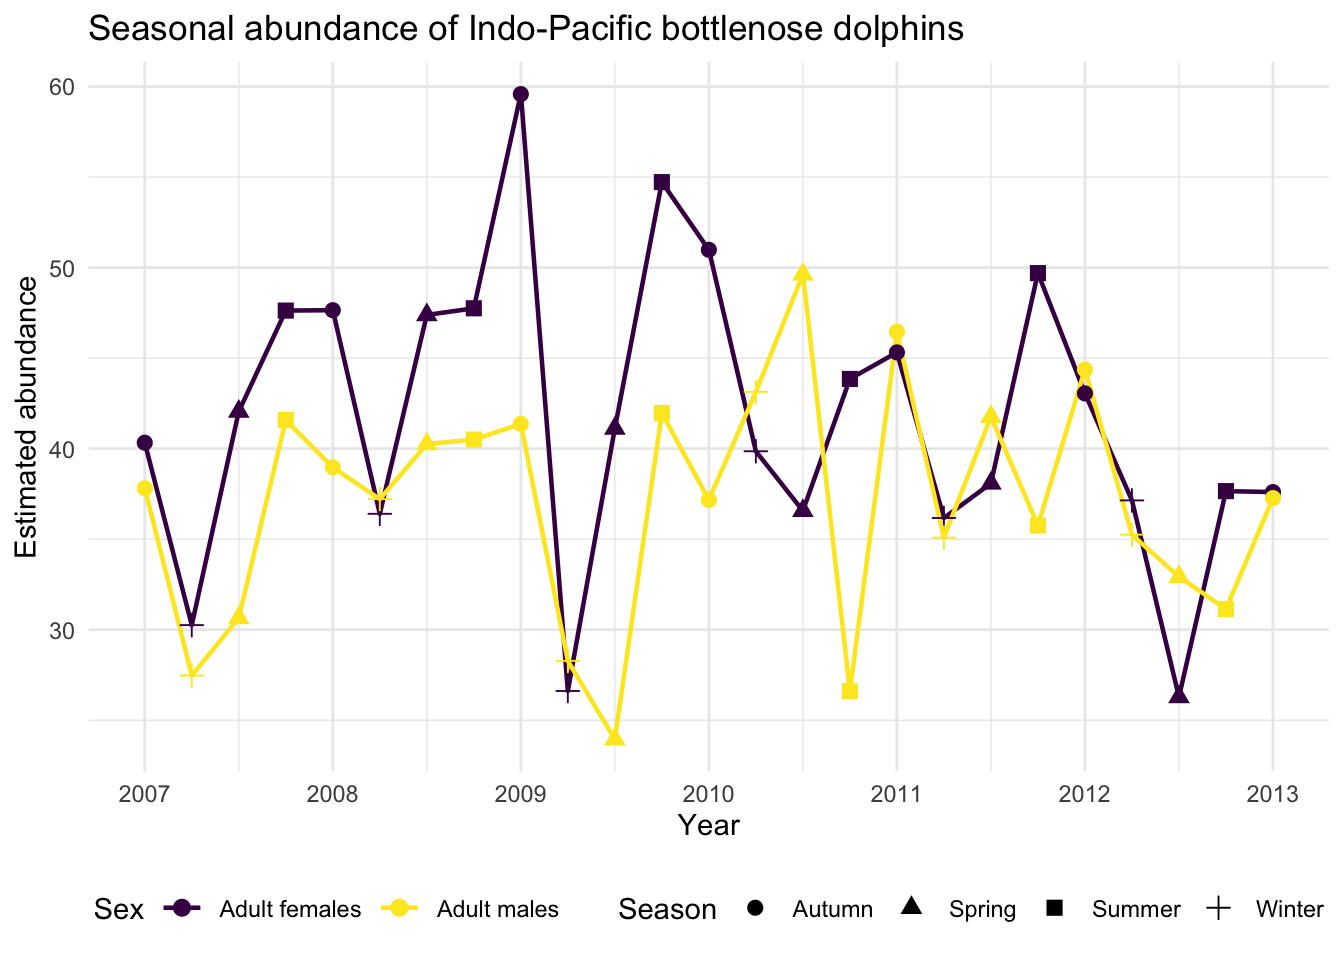
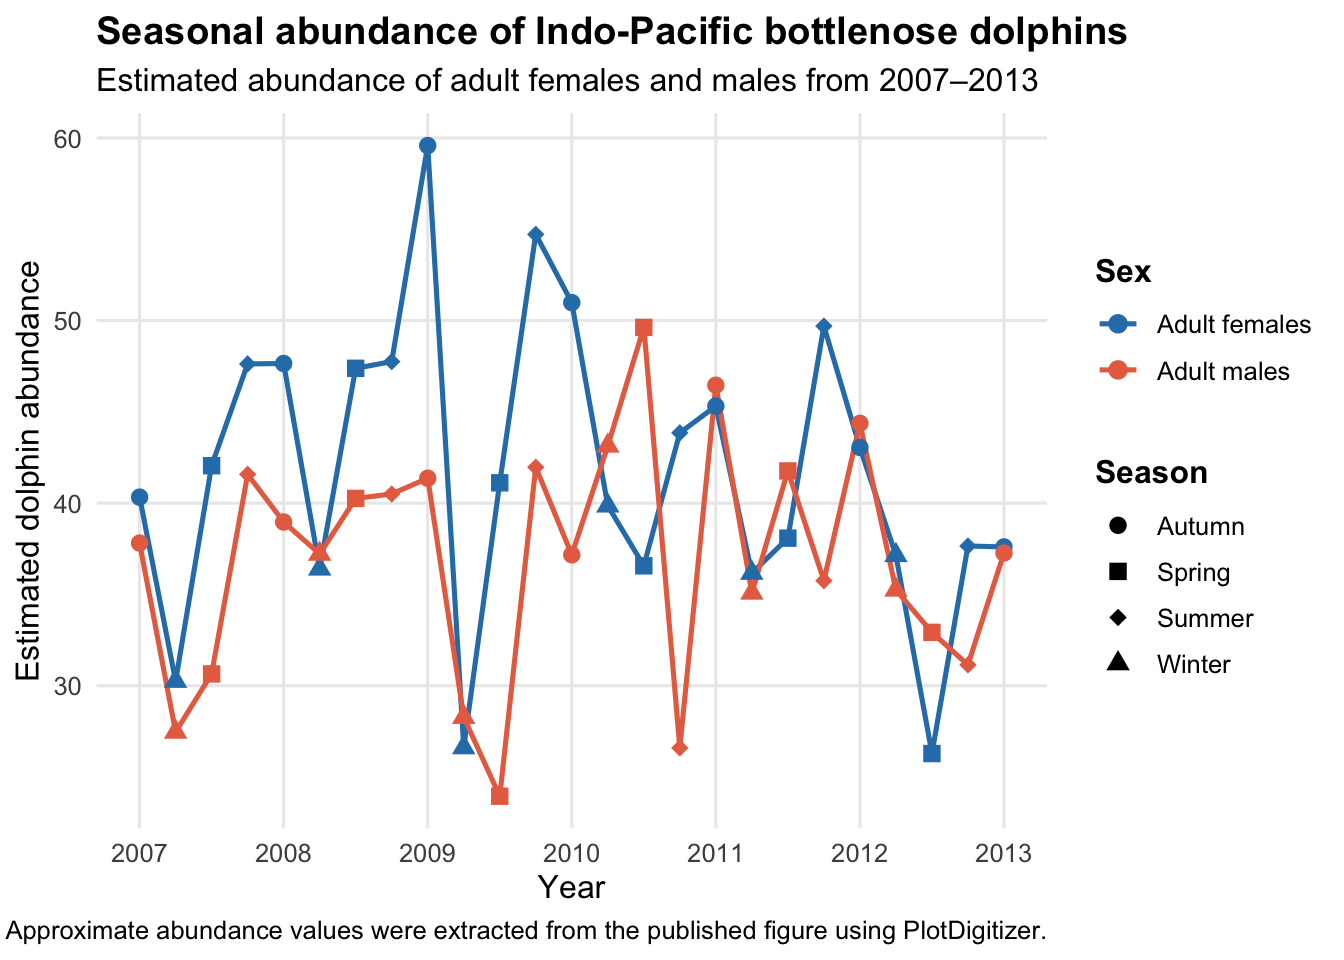
Workshop 3 plot deconstruction

diff --git a/docs/R4MarineScience_03.html b/docs/R4MarineScience_03.html
@@ -261,6 +261,11 @@ $ position &lt;dbl&gt; 1, 2, 3, 4, 5, 6, 7, 9, 10, 11, 12, 13, 14, 15, 16, 17, 1
 10 Adult females  2009 Winter Winter 2009          26.6</code></pre>
 </div>
 </div>
+</section>
+<section id="reconstructed-figure" class="level2">
+<h2 class="anchored" data-anchor-id="reconstructed-figure">Reconstructed figure</h2>
+<p><strong>Improvement approach:</strong><br>
+The figure was redesigned to make the temporal patterns easier to interpret by simplifying the x-axis, using contrasting colours for sex, and using different point shapes to retain seasonal information.</p>
 <div class="cell">
 <div class="sourceCode cell-code" id="cb19"><pre class="sourceCode r code-with-copy"><code class="sourceCode r"><span id="cb19-1"><a href="#cb19-1" aria-hidden="true" tabindex="-1"></a><span class="co"># Create a numeric time variable so seasons can be plotted within each year</span></span>
 <span id="cb19-2"><a href="#cb19-2" aria-hidden="true" tabindex="-1"></a>dolphin_plot <span class="ot">&lt;-</span> dolphin_clean <span class="sc">|&gt;</span></span>
@@ -272,7 +277,7 @@ $ position &lt;dbl&gt; 1, 2, 3, 4, 5, 6, 7, 9, 10, 11, 12, 13, 14, 15, 16, 17, 1
 <span id="cb19-8"><a href="#cb19-8" aria-hidden="true" tabindex="-1"></a>        season <span class="sc">==</span> <span class="st">"Spring"</span> <span class="sc">~</span> <span class="fl">0.50</span>,</span>
 <span id="cb19-9"><a href="#cb19-9" aria-hidden="true" tabindex="-1"></a>        season <span class="sc">==</span> <span class="st">"Summer"</span> <span class="sc">~</span> <span class="fl">0.75</span>))</span>
 <span id="cb19-10"><a href="#cb19-10" aria-hidden="true" tabindex="-1"></a></span>
-<span id="cb19-11"><a href="#cb19-11" aria-hidden="true" tabindex="-1"></a><span class="co"># Reconstruct the dolphin abundance figure with a cleaner and more accessible design</span></span>
+<span id="cb19-11"><a href="#cb19-11" aria-hidden="true" tabindex="-1"></a><span class="co"># Create a cleaner publication-style plot with improved colours and legend layout</span></span>
 <span id="cb19-12"><a href="#cb19-12" aria-hidden="true" tabindex="-1"></a><span class="fu">ggplot</span>(</span>
 <span id="cb19-13"><a href="#cb19-13" aria-hidden="true" tabindex="-1"></a>  dolphin_plot,</span>
 <span id="cb19-14"><a href="#cb19-14" aria-hidden="true" tabindex="-1"></a>  <span class="fu">aes</span>(</span>
@@ -280,84 +285,46 @@ $ position &lt;dbl&gt; 1, 2, 3, 4, 5, 6, 7, 9, 10, 11, 12, 13, 14, 15, 16, 17, 1
 <span id="cb19-16"><a href="#cb19-16" aria-hidden="true" tabindex="-1"></a>    <span class="at">y =</span> abundance,</span>
 <span id="cb19-17"><a href="#cb19-17" aria-hidden="true" tabindex="-1"></a>    <span class="at">colour =</span> sex,</span>
 <span id="cb19-18"><a href="#cb19-18" aria-hidden="true" tabindex="-1"></a>    <span class="at">group =</span> sex)) <span class="sc">+</span></span>
-<span id="cb19-19"><a href="#cb19-19" aria-hidden="true" tabindex="-1"></a>  <span class="fu">geom_line</span>(<span class="at">linewidth =</span> <span class="fl">0.8</span>) <span class="sc">+</span></span>
+<span id="cb19-19"><a href="#cb19-19" aria-hidden="true" tabindex="-1"></a>  <span class="fu">geom_line</span>(<span class="at">linewidth =</span> <span class="fl">0.9</span>) <span class="sc">+</span></span>
 <span id="cb19-20"><a href="#cb19-20" aria-hidden="true" tabindex="-1"></a>  <span class="fu">geom_point</span>(</span>
 <span id="cb19-21"><a href="#cb19-21" aria-hidden="true" tabindex="-1"></a>    <span class="fu">aes</span>(<span class="at">shape =</span> season),</span>
-<span id="cb19-22"><a href="#cb19-22" aria-hidden="true" tabindex="-1"></a>    <span class="at">size =</span> <span class="fl">2.5</span>) <span class="sc">+</span></span>
-<span id="cb19-23"><a href="#cb19-23" aria-hidden="true" tabindex="-1"></a>  <span class="fu">scale_colour_viridis_d</span>() <span class="sc">+</span></span>
-<span id="cb19-24"><a href="#cb19-24" aria-hidden="true" tabindex="-1"></a>  <span class="fu">scale_x_continuous</span>(</span>
-<span id="cb19-25"><a href="#cb19-25" aria-hidden="true" tabindex="-1"></a>    <span class="at">breaks =</span> <span class="dv">2007</span><span class="sc">:</span><span class="dv">2013</span>) <span class="sc">+</span></span>
-<span id="cb19-26"><a href="#cb19-26" aria-hidden="true" tabindex="-1"></a>  <span class="fu">labs</span>(</span>
-<span id="cb19-27"><a href="#cb19-27" aria-hidden="true" tabindex="-1"></a>    <span class="at">title =</span> <span class="st">"Seasonal abundance of Indo-Pacific bottlenose dolphins"</span>,</span>
-<span id="cb19-28"><a href="#cb19-28" aria-hidden="true" tabindex="-1"></a>    <span class="at">x =</span> <span class="st">"Year"</span>,</span>
-<span id="cb19-29"><a href="#cb19-29" aria-hidden="true" tabindex="-1"></a>    <span class="at">y =</span> <span class="st">"Estimated abundance"</span>,</span>
-<span id="cb19-30"><a href="#cb19-30" aria-hidden="true" tabindex="-1"></a>    <span class="at">colour =</span> <span class="st">"Sex"</span>,</span>
-<span id="cb19-31"><a href="#cb19-31" aria-hidden="true" tabindex="-1"></a>    <span class="at">shape =</span> <span class="st">"Season"</span>) <span class="sc">+</span></span>
-<span id="cb19-32"><a href="#cb19-32" aria-hidden="true" tabindex="-1"></a>  <span class="fu">theme_minimal</span>() <span class="sc">+</span></span>
-<span id="cb19-33"><a href="#cb19-33" aria-hidden="true" tabindex="-1"></a>  <span class="fu">theme</span>(</span>
-<span id="cb19-34"><a href="#cb19-34" aria-hidden="true" tabindex="-1"></a>    <span class="at">legend.position =</span> <span class="st">"bottom"</span>)</span></code><button title="Copy to Clipboard" class="code-copy-button"><i class="bi"></i></button></pre></div>
+<span id="cb19-22"><a href="#cb19-22" aria-hidden="true" tabindex="-1"></a>    <span class="at">size =</span> <span class="fl">2.7</span>) <span class="sc">+</span></span>
+<span id="cb19-23"><a href="#cb19-23" aria-hidden="true" tabindex="-1"></a>  <span class="fu">scale_colour_manual</span>(</span>
+<span id="cb19-24"><a href="#cb19-24" aria-hidden="true" tabindex="-1"></a>    <span class="at">values =</span> <span class="fu">c</span>(</span>
+<span id="cb19-25"><a href="#cb19-25" aria-hidden="true" tabindex="-1"></a>      <span class="st">"Adult females"</span> <span class="ot">=</span> <span class="st">"#2C7FB8"</span>,</span>
+<span id="cb19-26"><a href="#cb19-26" aria-hidden="true" tabindex="-1"></a>      <span class="st">"Adult males"</span> <span class="ot">=</span> <span class="st">"#E76F51"</span>)) <span class="sc">+</span></span>
+<span id="cb19-27"><a href="#cb19-27" aria-hidden="true" tabindex="-1"></a>  <span class="fu">scale_shape_manual</span>(</span>
+<span id="cb19-28"><a href="#cb19-28" aria-hidden="true" tabindex="-1"></a>    <span class="at">values =</span> <span class="fu">c</span>(</span>
+<span id="cb19-29"><a href="#cb19-29" aria-hidden="true" tabindex="-1"></a>      <span class="st">"Autumn"</span> <span class="ot">=</span> <span class="dv">16</span>,</span>
+<span id="cb19-30"><a href="#cb19-30" aria-hidden="true" tabindex="-1"></a>      <span class="st">"Winter"</span> <span class="ot">=</span> <span class="dv">17</span>,</span>
+<span id="cb19-31"><a href="#cb19-31" aria-hidden="true" tabindex="-1"></a>      <span class="st">"Spring"</span> <span class="ot">=</span> <span class="dv">15</span>,</span>
+<span id="cb19-32"><a href="#cb19-32" aria-hidden="true" tabindex="-1"></a>      <span class="st">"Summer"</span> <span class="ot">=</span> <span class="dv">18</span>)) <span class="sc">+</span></span>
+<span id="cb19-33"><a href="#cb19-33" aria-hidden="true" tabindex="-1"></a>  <span class="fu">scale_x_continuous</span>(</span>
+<span id="cb19-34"><a href="#cb19-34" aria-hidden="true" tabindex="-1"></a>    <span class="at">breaks =</span> <span class="dv">2007</span><span class="sc">:</span><span class="dv">2013</span>) <span class="sc">+</span></span>
+<span id="cb19-35"><a href="#cb19-35" aria-hidden="true" tabindex="-1"></a>  <span class="fu">labs</span>(</span>
+<span id="cb19-36"><a href="#cb19-36" aria-hidden="true" tabindex="-1"></a>    <span class="at">title =</span> <span class="st">"Seasonal abundance of Indo-Pacific bottlenose dolphins"</span>,</span>
+<span id="cb19-37"><a href="#cb19-37" aria-hidden="true" tabindex="-1"></a>    <span class="at">subtitle =</span> <span class="st">"Estimated abundance of adult females and males from 2007–2013"</span>,</span>
+<span id="cb19-38"><a href="#cb19-38" aria-hidden="true" tabindex="-1"></a>    <span class="at">x =</span> <span class="st">"Year"</span>,</span>
+<span id="cb19-39"><a href="#cb19-39" aria-hidden="true" tabindex="-1"></a>    <span class="at">y =</span> <span class="st">"Estimated dolphin abundance"</span>,</span>
+<span id="cb19-40"><a href="#cb19-40" aria-hidden="true" tabindex="-1"></a>    <span class="at">colour =</span> <span class="st">"Sex"</span>,</span>
+<span id="cb19-41"><a href="#cb19-41" aria-hidden="true" tabindex="-1"></a>    <span class="at">shape =</span> <span class="st">"Season"</span>,</span>
+<span id="cb19-42"><a href="#cb19-42" aria-hidden="true" tabindex="-1"></a>    <span class="at">caption =</span> <span class="st">"Approximate abundance values were extracted from the published figure using PlotDigitizer."</span>) <span class="sc">+</span></span>
+<span id="cb19-43"><a href="#cb19-43" aria-hidden="true" tabindex="-1"></a>  <span class="fu">theme_minimal</span>(<span class="at">base_size =</span> <span class="dv">12</span>) <span class="sc">+</span></span>
+<span id="cb19-44"><a href="#cb19-44" aria-hidden="true" tabindex="-1"></a>  <span class="fu">theme</span>(</span>
+<span id="cb19-45"><a href="#cb19-45" aria-hidden="true" tabindex="-1"></a>  <span class="at">panel.grid.minor =</span> <span class="fu">element_blank</span>(),</span>
+<span id="cb19-46"><a href="#cb19-46" aria-hidden="true" tabindex="-1"></a>  <span class="at">legend.position =</span> <span class="st">"right"</span>,</span>
+<span id="cb19-47"><a href="#cb19-47" aria-hidden="true" tabindex="-1"></a>  <span class="at">legend.box =</span> <span class="st">"vertical"</span>,</span>
+<span id="cb19-48"><a href="#cb19-48" aria-hidden="true" tabindex="-1"></a>  <span class="at">legend.title =</span> <span class="fu">element_text</span>(<span class="at">face =</span> <span class="st">"bold"</span>),</span>
+<span id="cb19-49"><a href="#cb19-49" aria-hidden="true" tabindex="-1"></a>  <span class="at">plot.title =</span> <span class="fu">element_text</span>(<span class="at">face =</span> <span class="st">"bold"</span>)) <span class="sc">+</span></span>
+<span id="cb19-50"><a href="#cb19-50" aria-hidden="true" tabindex="-1"></a><span class="fu">guides</span>(</span>
+<span id="cb19-51"><a href="#cb19-51" aria-hidden="true" tabindex="-1"></a>  <span class="at">colour =</span> <span class="fu">guide_legend</span>(</span>
+<span id="cb19-52"><a href="#cb19-52" aria-hidden="true" tabindex="-1"></a>    <span class="at">order =</span> <span class="dv">1</span>),</span>
+<span id="cb19-53"><a href="#cb19-53" aria-hidden="true" tabindex="-1"></a>  <span class="at">shape =</span> <span class="fu">guide_legend</span>(</span>
+<span id="cb19-54"><a href="#cb19-54" aria-hidden="true" tabindex="-1"></a>    <span class="at">order =</span> <span class="dv">2</span>))</span></code><button title="Copy to Clipboard" class="code-copy-button"><i class="bi"></i></button></pre></div>
 <div class="cell-output-display">
 <div>
 <figure class="figure">
 <p><img src="R4MarineScience_03_files/figure-html/unnamed-chunk-6-1.png" class="img-fluid figure-img" width="672"></p>
-</figure>
-</div>
-</div>
-</div>
-</section>
-<section id="reconstructed-figure" class="level2">
-<h2 class="anchored" data-anchor-id="reconstructed-figure">Reconstructed figure</h2>
-<p><strong>Improvement approach:</strong><br>
-The figure was redesigned to make the temporal patterns easier to interpret by simplifying the x-axis, using contrasting colours for sex, and using different point shapes to retain seasonal information.</p>
-<div class="cell">
-<div class="sourceCode cell-code" id="cb20"><pre class="sourceCode r code-with-copy"><code class="sourceCode r"><span id="cb20-1"><a href="#cb20-1" aria-hidden="true" tabindex="-1"></a><span class="co"># Create a cleaner publication-style plot with improved colours and legend layout</span></span>
-<span id="cb20-2"><a href="#cb20-2" aria-hidden="true" tabindex="-1"></a><span class="fu">ggplot</span>(</span>
-<span id="cb20-3"><a href="#cb20-3" aria-hidden="true" tabindex="-1"></a>  dolphin_plot,</span>
-<span id="cb20-4"><a href="#cb20-4" aria-hidden="true" tabindex="-1"></a>  <span class="fu">aes</span>(</span>
-<span id="cb20-5"><a href="#cb20-5" aria-hidden="true" tabindex="-1"></a>    <span class="at">x =</span> time_numeric,</span>
-<span id="cb20-6"><a href="#cb20-6" aria-hidden="true" tabindex="-1"></a>    <span class="at">y =</span> abundance,</span>
-<span id="cb20-7"><a href="#cb20-7" aria-hidden="true" tabindex="-1"></a>    <span class="at">colour =</span> sex,</span>
-<span id="cb20-8"><a href="#cb20-8" aria-hidden="true" tabindex="-1"></a>    <span class="at">group =</span> sex)) <span class="sc">+</span></span>
-<span id="cb20-9"><a href="#cb20-9" aria-hidden="true" tabindex="-1"></a>  <span class="fu">geom_line</span>(<span class="at">linewidth =</span> <span class="fl">0.9</span>) <span class="sc">+</span></span>
-<span id="cb20-10"><a href="#cb20-10" aria-hidden="true" tabindex="-1"></a>  <span class="fu">geom_point</span>(</span>
-<span id="cb20-11"><a href="#cb20-11" aria-hidden="true" tabindex="-1"></a>    <span class="fu">aes</span>(<span class="at">shape =</span> season),</span>
-<span id="cb20-12"><a href="#cb20-12" aria-hidden="true" tabindex="-1"></a>    <span class="at">size =</span> <span class="fl">2.7</span>) <span class="sc">+</span></span>
-<span id="cb20-13"><a href="#cb20-13" aria-hidden="true" tabindex="-1"></a>  <span class="fu">scale_colour_manual</span>(</span>
-<span id="cb20-14"><a href="#cb20-14" aria-hidden="true" tabindex="-1"></a>    <span class="at">values =</span> <span class="fu">c</span>(</span>
-<span id="cb20-15"><a href="#cb20-15" aria-hidden="true" tabindex="-1"></a>      <span class="st">"Adult females"</span> <span class="ot">=</span> <span class="st">"#2C7FB8"</span>,</span>
-<span id="cb20-16"><a href="#cb20-16" aria-hidden="true" tabindex="-1"></a>      <span class="st">"Adult males"</span> <span class="ot">=</span> <span class="st">"#E76F51"</span>)) <span class="sc">+</span></span>
-<span id="cb20-17"><a href="#cb20-17" aria-hidden="true" tabindex="-1"></a>  <span class="fu">scale_shape_manual</span>(</span>
-<span id="cb20-18"><a href="#cb20-18" aria-hidden="true" tabindex="-1"></a>    <span class="at">values =</span> <span class="fu">c</span>(</span>
-<span id="cb20-19"><a href="#cb20-19" aria-hidden="true" tabindex="-1"></a>      <span class="st">"Autumn"</span> <span class="ot">=</span> <span class="dv">16</span>,</span>
-<span id="cb20-20"><a href="#cb20-20" aria-hidden="true" tabindex="-1"></a>      <span class="st">"Winter"</span> <span class="ot">=</span> <span class="dv">17</span>,</span>
-<span id="cb20-21"><a href="#cb20-21" aria-hidden="true" tabindex="-1"></a>      <span class="st">"Spring"</span> <span class="ot">=</span> <span class="dv">15</span>,</span>
-<span id="cb20-22"><a href="#cb20-22" aria-hidden="true" tabindex="-1"></a>      <span class="st">"Summer"</span> <span class="ot">=</span> <span class="dv">18</span>)) <span class="sc">+</span></span>
-<span id="cb20-23"><a href="#cb20-23" aria-hidden="true" tabindex="-1"></a>  <span class="fu">scale_x_continuous</span>(</span>
-<span id="cb20-24"><a href="#cb20-24" aria-hidden="true" tabindex="-1"></a>    <span class="at">breaks =</span> <span class="dv">2007</span><span class="sc">:</span><span class="dv">2013</span>) <span class="sc">+</span></span>
-<span id="cb20-25"><a href="#cb20-25" aria-hidden="true" tabindex="-1"></a>  <span class="fu">labs</span>(</span>
-<span id="cb20-26"><a href="#cb20-26" aria-hidden="true" tabindex="-1"></a>    <span class="at">title =</span> <span class="st">"Seasonal abundance of Indo-Pacific bottlenose dolphins"</span>,</span>
-<span id="cb20-27"><a href="#cb20-27" aria-hidden="true" tabindex="-1"></a>    <span class="at">subtitle =</span> <span class="st">"Estimated abundance of adult females and males from 2007–2013"</span>,</span>
-<span id="cb20-28"><a href="#cb20-28" aria-hidden="true" tabindex="-1"></a>    <span class="at">x =</span> <span class="st">"Year"</span>,</span>
-<span id="cb20-29"><a href="#cb20-29" aria-hidden="true" tabindex="-1"></a>    <span class="at">y =</span> <span class="st">"Estimated dolphin abundance"</span>,</span>
-<span id="cb20-30"><a href="#cb20-30" aria-hidden="true" tabindex="-1"></a>    <span class="at">colour =</span> <span class="st">"Sex"</span>,</span>
-<span id="cb20-31"><a href="#cb20-31" aria-hidden="true" tabindex="-1"></a>    <span class="at">shape =</span> <span class="st">"Season"</span>,</span>
-<span id="cb20-32"><a href="#cb20-32" aria-hidden="true" tabindex="-1"></a>    <span class="at">caption =</span> <span class="st">"Approximate abundance values were extracted from the published figure using PlotDigitizer."</span>) <span class="sc">+</span></span>
-<span id="cb20-33"><a href="#cb20-33" aria-hidden="true" tabindex="-1"></a>  <span class="fu">theme_minimal</span>(<span class="at">base_size =</span> <span class="dv">12</span>) <span class="sc">+</span></span>
-<span id="cb20-34"><a href="#cb20-34" aria-hidden="true" tabindex="-1"></a>  <span class="fu">theme</span>(</span>
-<span id="cb20-35"><a href="#cb20-35" aria-hidden="true" tabindex="-1"></a>  <span class="at">panel.grid.minor =</span> <span class="fu">element_blank</span>(),</span>
-<span id="cb20-36"><a href="#cb20-36" aria-hidden="true" tabindex="-1"></a>  <span class="at">legend.position =</span> <span class="st">"right"</span>,</span>
-<span id="cb20-37"><a href="#cb20-37" aria-hidden="true" tabindex="-1"></a>  <span class="at">legend.box =</span> <span class="st">"vertical"</span>,</span>
-<span id="cb20-38"><a href="#cb20-38" aria-hidden="true" tabindex="-1"></a>  <span class="at">legend.title =</span> <span class="fu">element_text</span>(<span class="at">face =</span> <span class="st">"bold"</span>),</span>
-<span id="cb20-39"><a href="#cb20-39" aria-hidden="true" tabindex="-1"></a>  <span class="at">plot.title =</span> <span class="fu">element_text</span>(<span class="at">face =</span> <span class="st">"bold"</span>)) <span class="sc">+</span></span>
-<span id="cb20-40"><a href="#cb20-40" aria-hidden="true" tabindex="-1"></a><span class="fu">guides</span>(</span>
-<span id="cb20-41"><a href="#cb20-41" aria-hidden="true" tabindex="-1"></a>  <span class="at">colour =</span> <span class="fu">guide_legend</span>(</span>
-<span id="cb20-42"><a href="#cb20-42" aria-hidden="true" tabindex="-1"></a>    <span class="at">order =</span> <span class="dv">1</span>),</span>
-<span id="cb20-43"><a href="#cb20-43" aria-hidden="true" tabindex="-1"></a>  <span class="at">shape =</span> <span class="fu">guide_legend</span>(</span>
-<span id="cb20-44"><a href="#cb20-44" aria-hidden="true" tabindex="-1"></a>    <span class="at">order =</span> <span class="dv">2</span>))</span></code><button title="Copy to Clipboard" class="code-copy-button"><i class="bi"></i></button></pre></div>
-<div class="cell-output-display">
-<div>
-<figure class="figure">
-<p><img src="R4MarineScience_03_files/figure-html/unnamed-chunk-7-1.png" class="img-fluid figure-img" width="672"></p>
 </figure>
 </div>
 </div>
